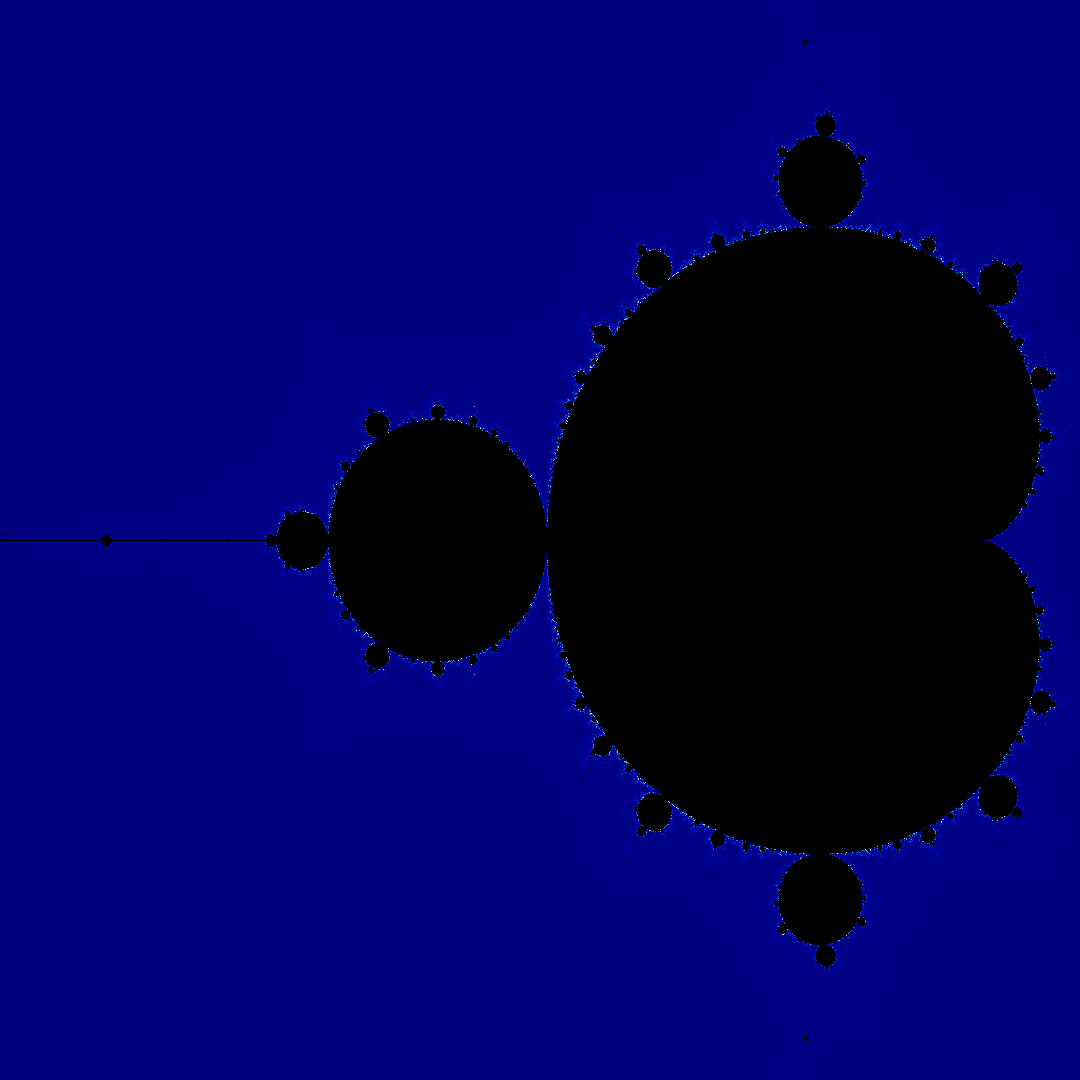
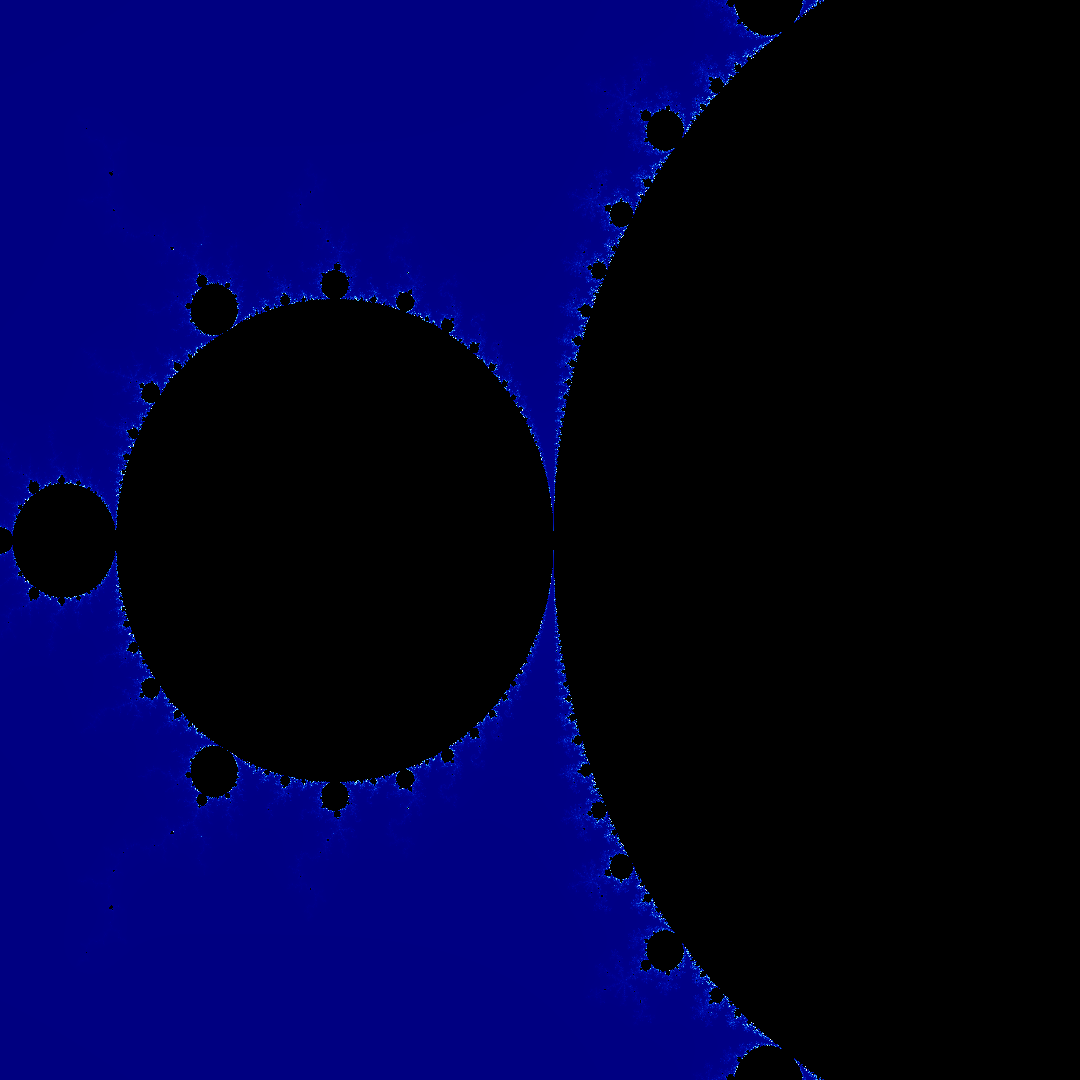
zoom works

diff --git a/src/main.rs b/src/main.rs
@@ -79,11 +79,33 @@ fn generate_image_p(width: u32, height: u32, x1: f64, y1: f64, x2: f64, y2: f64,
 }
 
 fn main() {
-    
+    let magnification = 2.0;
+    let x_offset = 0.0;
+    let y_offset = 0.0;
+
     println!("Generating Mandelbrot Set - this may take a while...");
 
+    
+    let x_min = -2.0;
+    let y_min = -1.12;
+    let x_max = 0.47;
+    let y_max = 1.12;
+
+    // Calculate x, y range
+    let x_length = x_max - x_min;
+    let y_length = y_max - y_min;
+    let x_midpoint = x_min + (x_length / 2.0) + x_offset;
+    let y_midpoint = y_min + (y_length / 2.0) + y_offset;
+
+    let x1 = x_midpoint - (x_length / (2.0 * magnification));
+    let y1 = y_midpoint - (y_length / (2.0 * magnification));
+    let x2 = x_midpoint + (x_length / (2.0 * magnification));
+    let y2 = y_midpoint + (y_length / (2.0 * magnification));
+    println!("x1, y1 = {:?}; x2, y2 = {:?}", (x1, y1), (x2, y2));
+
+    // Generate image and measure elapsed time
     let now = Instant::now();
-    generate_image_p(1080, 1080, -2.0, -1.12, 0.47, 1.12, 1000);
+    generate_image_p(1080, 1080, x1, y1, x2, y2, 1000);
     let elapsed = now.elapsed();
 
     println!("Done! Elapsed time: {:.2?}", elapsed);
